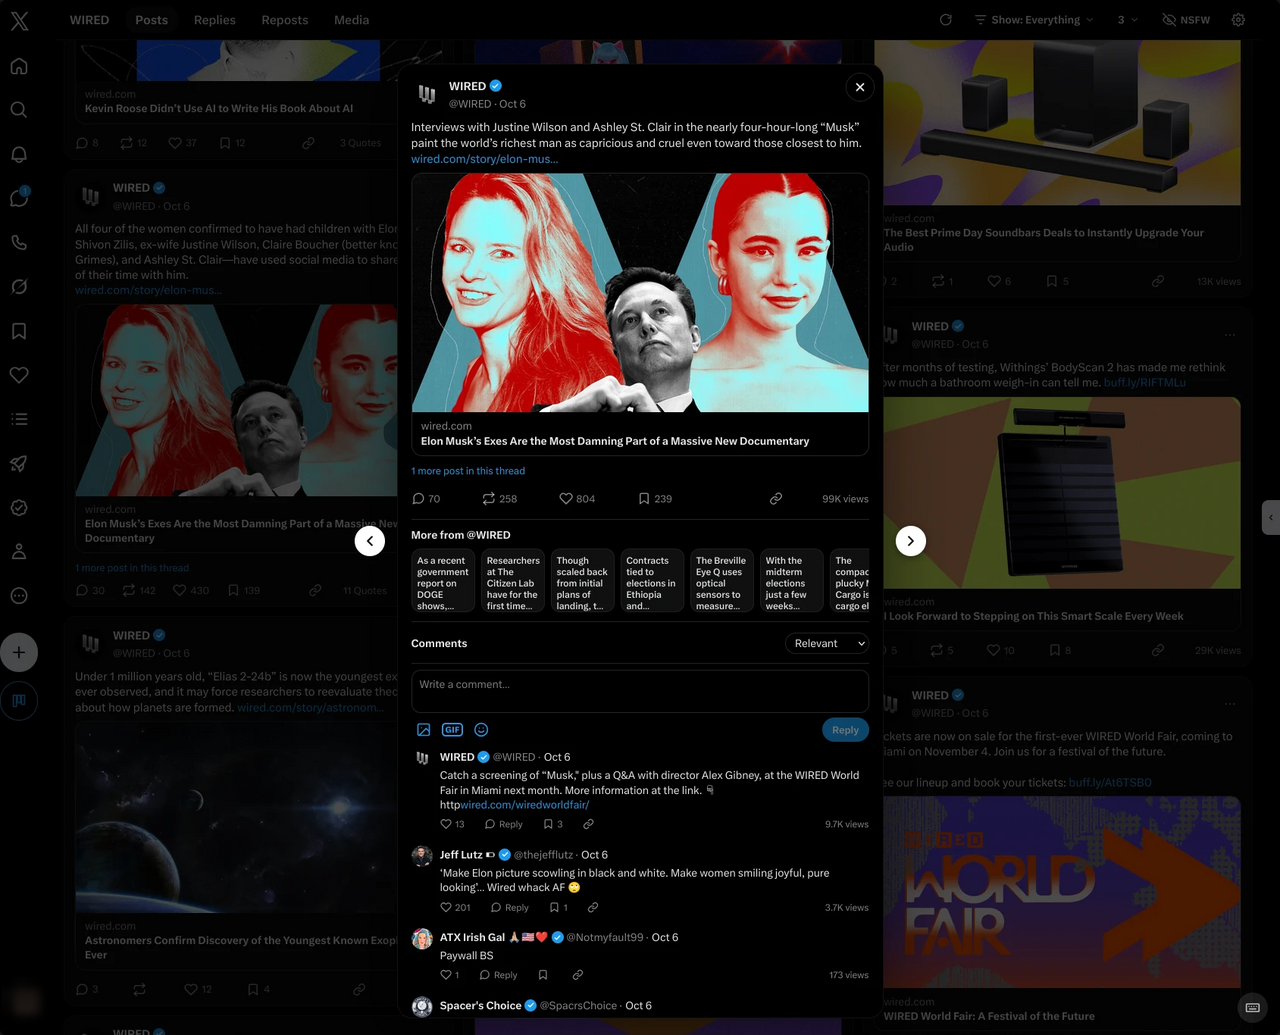
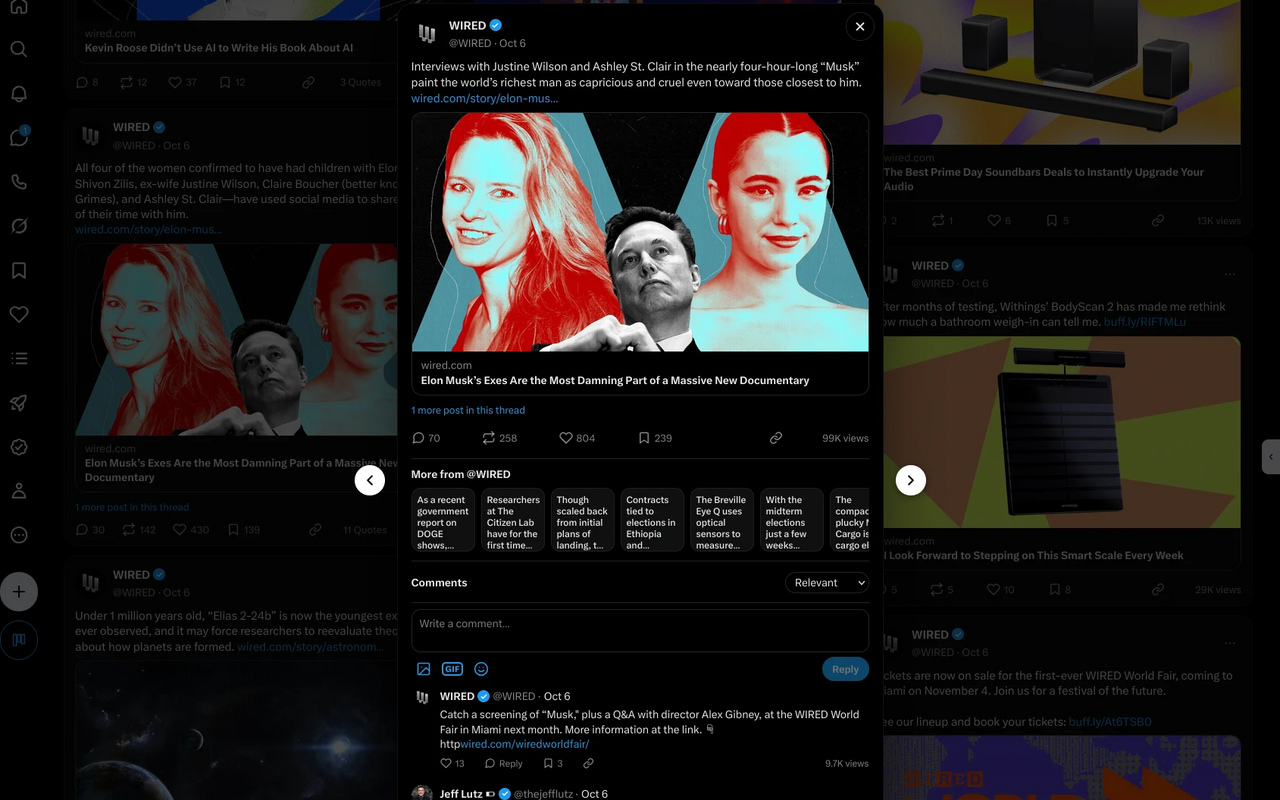
Store: real shots are cut to the slide's 16:10 from a chosen line, so the viewer is whole
Claude-Session: https://claude.ai/code/session_018kEDBPkK9jgvVfS9DEM5ks

diff --git a/store/prepare-own.js b/store/prepare-own.js
@@ -3,7 +3,8 @@
 // bottom of X's menu, say) and writes store/screenshots/own/<name>.png at 1280 wide, which make-slides.js then uses in place of the generated shot of that name.
 //   node store/prepare-own.js <folder with your screenshots>
 // The originals are never copied into the repository: only the blurred results are. Each entry of own-shots.json: { "src": file in the folder, "name": the slide's file name,
-// "blur": [[x, y, width, height], ...] in the original's pixels }. Needs ImageMagick (convert).
+// "blur": [[x, y, width, height], ...], "y": where the cut starts } in the original's pixels. The slide's picture is 16:10, so a taller window is cut to that shape from
+// the line `y` (the window's own edge, 8, if there is none): choose it so that what the slide is about is inside. A shot already 16:10 is left whole. Needs ImageMagick (convert).
 const fs = require('node:fs');
 const path = require('node:path');
 const { execFileSync } = require('node:child_process');
@@ -20,7 +21,8 @@ for (const s of shots) {
   const [w, h] = execFileSync('identify', ['-format', '%w %h', src + '[0]'], { encoding: 'utf8' }).trim().split(' ').map(Number);
   const args = [src + '[0]'];
   for (const [x, y, bw, bh] of s.blur || []) args.push('-region', `${bw}x${bh}+${x}+${y}`, '-scale', '6%', '-scale', '1667%', '-blur', '0x6', '+region'); // (a coarse mosaic, then a blur: nothing of a face or a name is left)
-  args.push('-crop', `${w - 2 * MARGIN}x${h - 2 * MARGIN}+${MARGIN}+${MARGIN}`, '+repage', '-resize', '1280x', '-strip', 'PNG24:' + path.join(OUT, s.name + '.png'));
+  const cw = w - 2 * MARGIN, ch = Math.min(h - 2 * MARGIN, Math.round(cw / 1.6)), top = Math.max(MARGIN, Math.min(s.y || MARGIN, h - MARGIN - ch));
+  args.push('-crop', `${cw}x${ch}+${MARGIN}+${top}`, '+repage', '-resize', '1280x', '-strip', 'PNG24:' + path.join(OUT, s.name + '.png'));
   execFileSync('convert', args);
   console.log('wrote', s.name);
 }
